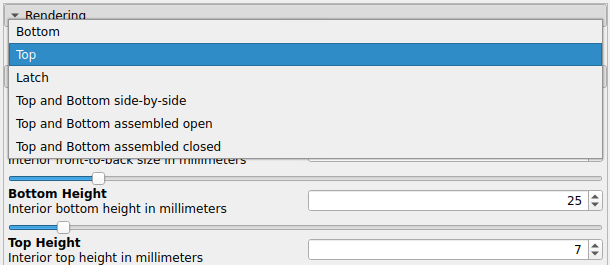
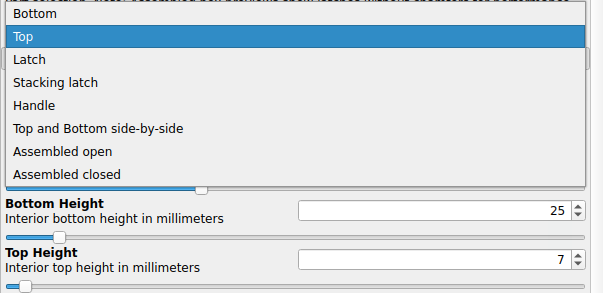
Update Gridfinity rugged box model documentation

diff --git a/gridfinity/rugged-box/README.md b/gridfinity/rugged-box/README.md
@@ -90,6 +90,9 @@ Select your desired dimensions and options in the OpenSCAD Customizer. Then, one
 at a time, select each part (top, bottom, latch, stacking latch, handle) in the
 Part drop-down. For each part, perform a render (F6) and export to STL (F7).
 
+![Customizer screenshot](images/readme/customizer-screenshot.png)
+![Customizer part selection screenshot](images/readme/customizer-screenshot-part-select.png)
+
 ### Recommended model configuration
 
 *tl;dr:*
@@ -148,6 +151,8 @@ side. For the latches, a brim may be helpful for bed adhesion.
 For boxes without exterior Gridfinity stacking (**Gridfinity Stackable** model
 option), the box tops and bottoms print without supports.
 
+![Slicer screenshot with plain box](images/readme/slicer-screenshot-plain.png)
+
 For boxes with exterior Gridfinity stacking, see the next section.
 
 ### Additional print settings for Gridfinity Stackable boxes
@@ -160,6 +165,8 @@ additional settings to print for both the box top and bottom.
 The box top prints upside down. Supports are needed for each grid of the
 integrated Gridfinity baseplate.
 
+![Slicer screenshot of stackable box top](images/readme/slicer-screenshot-stackable-top-1.png)
+
 OpenSCAD renders the exterior stacking grid on the box top with some errant
 zero-thickness polygons that make manually painting supports difficult. (These
 don't affect the printed box.)
@@ -170,6 +177,8 @@ With the support painting tool (hotkey **L**):
   enter **1**.
 * Click **Enforce** to automatically paint supports.
 
+![Slicer screenshot of stackable box top, support application](images/readme/slicer-screenshot-stackable-top-2.png)
+
 This method paints the integrated Gridfinity baseplate, and additionally the
 very top overhang on all the screw holes with supports. The screw hole overhangs
 do not need supports, so these should be removed. With the support painting tool
@@ -179,6 +188,9 @@ still selected:
   speed up the manual (un-)painting process
 * **Shift+Left-click** on each of the inner screw hole overhang polygons to
   remove the painted supports from the screw holes
+
+![Slicer screenshot of stackable box top, supports applied](images/readme/slicer-screenshot-stackable-top-3.png)
+![Slicer screenshot of stackable box top, overhang supports to remove](images/readme/slicer-screenshot-stackable-top-4.png)
 
 Finally, configure these print settings for the box top:
 
@@ -197,10 +209,14 @@ Finally, configure these print settings for the box top:
   finished look. Avoid setting this to 45, as that causes the first and second
   model layers to be printed at the same angle which is undesirable.
 
+![Slicer screenshot of stackable box top, ready to print](images/readme/slicer-screenshot-stackable-top-5.png)
+
 #### Box bottom
 
 The box bottom prints upright. Supports are needed for the outer perimeter
 that overhangs the base Gridfinity grid.
+
+![Slicer screenshot of stackable box bottom](images/readme/slicer-screenshot-stackable-bottom-1.png)
 
 With the support painting tool (hotkey **L**):
 
@@ -209,6 +225,8 @@ With the support painting tool (hotkey **L**):
 * Rotate the model so the underside is visible.
 * **Left-click** to paint supports on the outer perimeter that overhangs the
   base Gridfinity grid.
+
+![Slicer screenshot of stackable box bottom, with painted supports](images/readme/slicer-screenshot-stackable-bottom-2.png)
 
 Finally, configure these print settings for the box bottom:
 
@@ -233,6 +251,8 @@ settings to their default values:
 * **Support material > XY separation between and object and its support**
   (default 60%).
 
+![Slicer screenshot of stackable box bottom, ready to print](images/readme/slicer-screenshot-stackable-bottom-3.png)
+
 ## Differences of the remix compared to the original
 
 This uses [Gridfinity Rebuilt in OpenSCAD][gridfinity-rebuilt-openscad] to add
@@ -246,7 +266,8 @@ This model is licensed under [Creative Commons (4.0 International License) Attri
 This is a remix of
 [**Gridfinity Rebuilt in OpenSCAD** by **kennetek**][gridfinity-rebuilt-openscad].
 
-Gridfinity and [Gridfinity Rebuilt in OpenSCAD][gridfinity-rebuilt-openscad]
+[Gridfinity][gridfinity] and
+[Gridfinity Rebuilt in OpenSCAD][gridfinity-rebuilt-openscad]
 use the [MIT License][gridfinity-license].
 
 [fully-printable-gridfinity-box-by-lennard-hoting]: https://www.printables.com/model/369813-fully-printable-gridfinity-box-parametric
